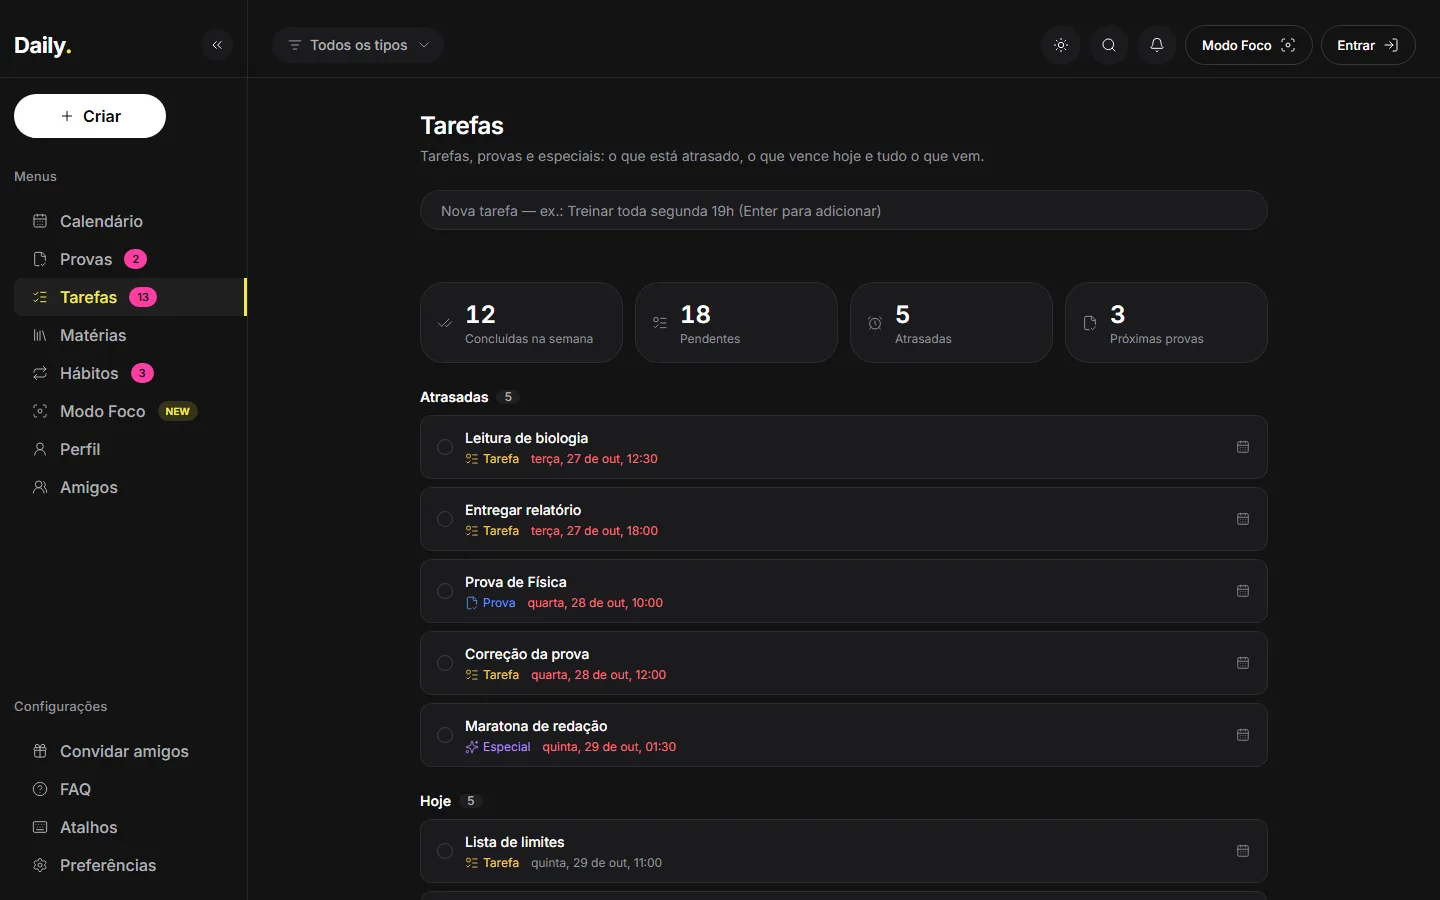
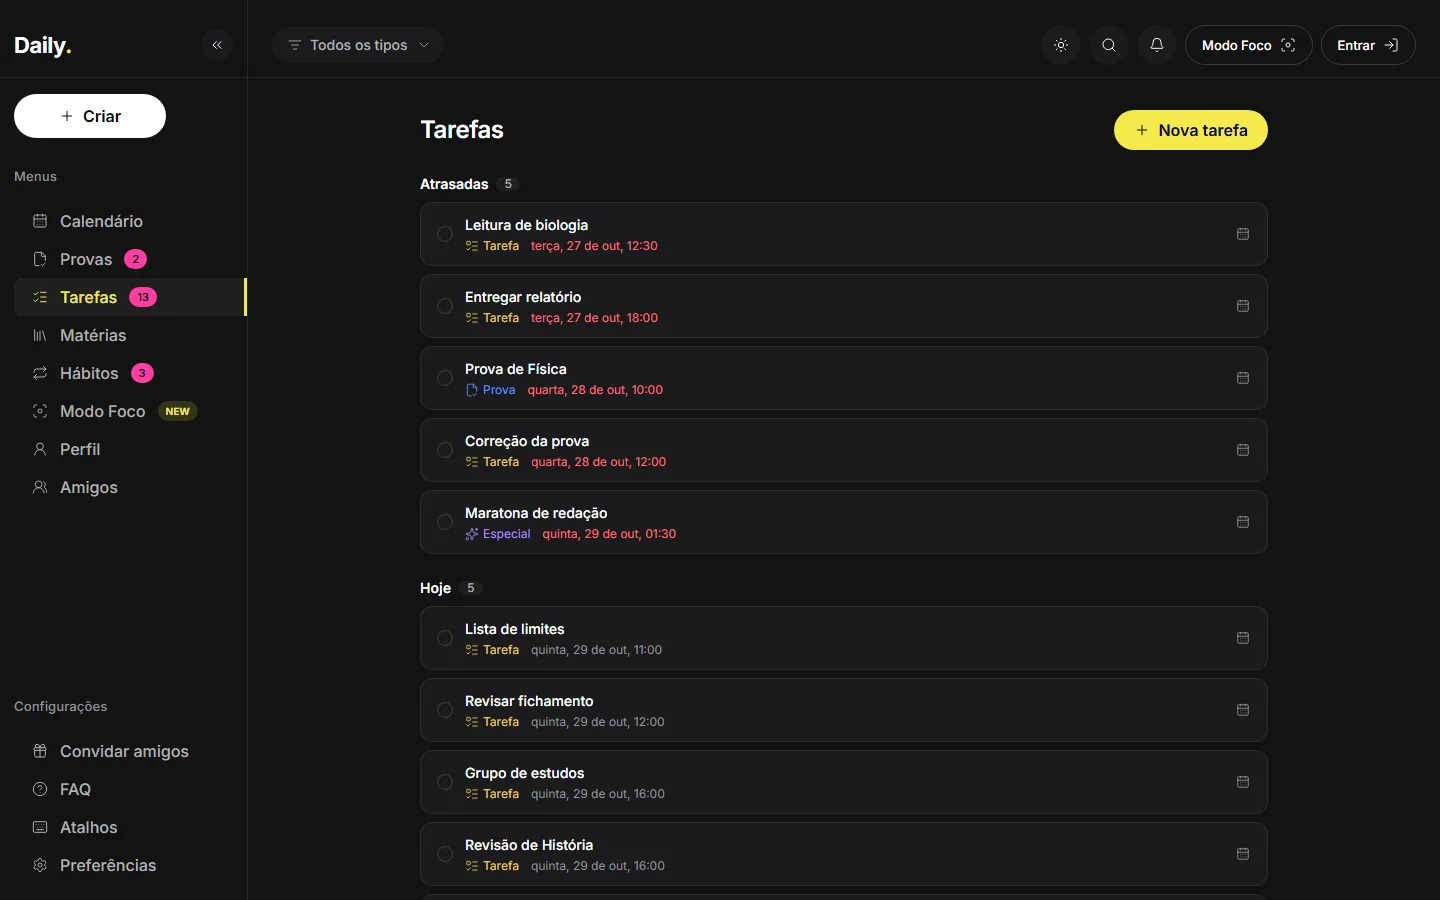
docs: minimalismo das páginas (CHANGELOG, README, design system §23 e capturas de Tarefas e Hábitos)

diff --git a/README.md b/README.md
@@ -56,7 +56,7 @@ A versão **1.0** está publicada em [https://dailystudyplanner.vercel.app](http
 | **Calendário (Mês)**: tarefas, provas e especiais, com filtro por tipo.<br>![Mês](docs/images/calendario-mes.webp)                                              | **Semana**: grade de horas, eventos simultâneos lado a lado e faixa de hábitos.<br>![Semana](docs/images/calendario-semana.webp)                                        |
 | **Dia**: agenda com painel de hábitos, próxima prova e tarefas.<br>![Dia](docs/images/calendario-dia.webp)                                                      | **Ano**: 12 mini-meses com a densidade de eventos de cada dia.<br>![Ano](docs/images/calendario-ano.webp)                                                               |
 | **Hábitos**: heatmap de contribuições, sequências e taxa por hábito.<br>![Hábitos](docs/images/habitos.webp)                                                    | **Perfil** (antes Estatísticas): tempo de foco, preparação, água, hábitos de hoje e estatísticas pessoais.<br>![Perfil](docs/images/perfil.webp)                        |
-| **Tarefas**: resumo, Atrasadas, Hoje e todas as Próximas, com concluir em um clique.<br>![Tarefas](docs/images/tarefas.webp)                                    | **Painel de tarefa**: tipo, status em 3 opções, prazo, conteúdos/subtarefas e descrição.<br>![Painel de tarefa](docs/images/painel-tarefa.webp)                         |
+| **Tarefas**: Atrasadas, Hoje e todas as Próximas, com concluir em um clique e o botão “Nova tarefa”.<br>![Tarefas](docs/images/tarefas.webp)                    | **Painel de tarefa**: tipo, status em 3 opções, prazo, conteúdos/subtarefas e descrição.<br>![Painel de tarefa](docs/images/painel-tarefa.webp)                         |
 | **Tarefas recorrentes**: repetir com atalhos ou personalizado, resumo e prévia das próximas datas.<br>![Repetir no painel](docs/images/recorrentes-painel.webp) | **Escopo**: editar ou excluir só esta ocorrência, esta e as próximas, ou todas.<br>![Escopo da edição](docs/images/recorrentes-escopo.webp)                             |
 | **Tema claro**: o mesmo app em fundo claro, com o seletor Sistema, Claro ou Escuro.<br>![Tema claro](docs/images/tema-claro-calendario.webp)                    | **Perfil no claro**: cartões brancos, tinta escura e as cores de significado com contraste AA.<br>![Perfil no tema claro](docs/images/tema-claro-perfil.webp)           |
 | **Conquistas**: medalhas com níveis, progresso e a data, agrupadas por categoria.<br>![Conquistas](docs/images/conquistas.webp)                                 | **Detalhe da medalha**: critério, data de cada nível e "Destacar no perfil".<br>![Detalhe da medalha](docs/images/medalha-detalhe.webp)                                 |
@@ -73,7 +73,6 @@ A versão **1.0** está publicada em [https://dailystudyplanner.vercel.app](http
 - [x] Três tipos de compromisso (**Tarefa**, **Prova**, **Especial**) e três status (**Pendente**, **Concluído**, **Cancelado**) com cores reservadas: a tarefa fica amarela, verde ou vermelha; prova e especial mantêm a cor do tipo
 - [x] **Painel de tarefa** único para criar, ver e editar (lateral no desktop, tela cheia no celular), com **subtarefas** em qualquer tipo, progresso e “Mais opções”; **concluir com um clique** em todo chip e bloco do calendário (Dia, Semana, Mês e agenda de hoje), nas linhas de Tarefas e no painel, com “Desfazer” (a Prova se conclui pelos conteúdos)
 - [x] **Tarefas recorrentes** (Tarefa e Especial): todo dia, dias úteis, dias da semana, a cada N dias/semanas/meses/anos, dia do mês ou último dia, até uma data ou N vezes; cada ocorrência se conclui sozinha (subtarefas recomeçam), e editar/excluir pergunta “Somente esta / Esta e as próximas / Todas”
-- [x] **Entrada rápida em pt-BR** na página Tarefas (`Treinar toda segunda 19h`, `Aluguel todo dia 5`), mostrando o que entendeu antes de salvar
 - [x] Checklist de conteúdos da prova com barra de progresso
 - [x] **Filtro por tipo** (multisseleção) no calendário e na página Tarefas, salvo entre sessões
 - [x] Sidebar recolhível e interface em pt-BR
@@ -81,7 +80,7 @@ A versão **1.0** está publicada em [https://dailystudyplanner.vercel.app](http
 - [x] **Dados salvos no navegador** (`localStorage` versionado, com validação, migração e backup)
 - [x] **Criar, editar, duplicar e excluir** tarefas, provas, especiais e matérias, com "Desfazer" por 6 s
 - [x] Conteúdos da prova como mini tarefas (adicionar, renomear, remover, reordenar, marcar) com progresso
-- [x] Páginas **Provas** (contagem regressiva), **Tarefas** (resumo, Atrasadas, Hoje, Próximas sem limite de dias e Concluídas) e **Matérias** (cores)
+- [x] Páginas **Provas** (contagem regressiva), **Tarefas** (Atrasadas, Hoje, Próximas sem limite de dias e Concluídas) e **Matérias** (cores)
 - [x] Clique num dia vazio cria evento; "+N mais" abre a lista completa do dia
 - [x] Exportar e importar dados em JSON (validado, com confirmação; aceita arquivos v1 a v5)
 - [x] **Modo Foco** (`/foco`): anel minimalista com tempo editável por digitação (1 min a 3 h), histórico de sessões e **travamento do app** (veja abaixo)

diff --git a/docs/design/design-system.md b/docs/design/design-system.md
@@ -546,7 +546,7 @@ Sem tokens novos: tudo usa os existentes (chips de seleção, `MetaRow`, `Modal`
 - **Ícone de repetição** (`ui/RecurrenceIcon`, `Repeat2` do lucide em `size-icon-sm`, `currentColor`): ao lado do rótulo do tipo nos chips e blocos, e antes da regra nas linhas da página Tarefas. É decorativo onde o nome acessível do chip já diz “repete: Toda segunda e quarta”; fora disso tem `role="img"` e `aria-label`.
 - **Linha “Repetir”** no painel (Tarefa e Especial): atalhos como chips de seleção (`radiogroup`, um toque), “Personalizado…” abre um `fieldset` com borda fina (`border-hair`, `rounded-card-sm`): “A cada” (número + unidade), dias da semana como chips `aria-pressed` (DOM–SÁB, nome completo no `aria-label`), dia do mês ou “Último dia do mês” e término (Nunca / Em / Após). Embaixo, sempre: o resumo em texto (`text-sm font-medium`), “Próximas: …” (`text-soft`), o erro em `role="alert"` e a dica hábito × tarefa recorrente (`text-muted`, ícone `Info`).
 - **Diálogo de escopo** (`features/tasks/ScopeDialog`): `Modal` pequeno por cima do painel (só o diálogo do topo trata Esc e Tab), três opções em cartões com rádio e dica; a escolhida ganha `border-accent`; “Somente esta” fica esmaecida e explicada quando a mudança vale para a série. Botões Voltar (secundário) e Salvar/Excluir (primário).
-- **Entrada rápida** (página Tarefas): campo largo; o “Entendi: **título** · data · hora · regra” fica abaixo, ligado por `aria-describedby`.
+- **Página Tarefas:** sem campo de entrada rápida (removido no Prompt 17); “+ Nova tarefa” é um `Button` primário no cabeçalho, igual a “Novo hábito”.
 - **Contraste:** o horário nos chips e blocos passou de `text-muted` para `text-soft` (era 4,06:1 sobre os fundos suaves de status). Medido nas visões Semana e Mês, na página Tarefas, no painel com “Personalizado” aberto e no diálogo de escopo: tudo ≥ 4,5:1.
 
 | Repetir no painel                                       | Escopo da edição                                       |
@@ -689,3 +689,9 @@ Sem tokens novos. O chip e o bloco do calendário viram um **contêiner com duas
 - **Prova** nunca ganha o controle (prepara-se pelos conteúdos). **Cancelada** mostra um “×” (`text-cancelado`) onde há folga, sem ação; reabrir fica no painel.
 - **Ocorrência de série** conclui só a si mesma (id `serie@data`), sem perguntar escopo.
 - Toast “Desfazer” (`toggleDoneWithUndo`) e medalhas avaliadas como em qualquer conclusão. O Ano não tem chips (só densidade).
+
+## 23. Cabeçalho de página mínimo (v1.8)
+
+- `PageShell` tem só **título** (`h1`, `text-xl`; no celular `sr-only`, porque a topbar já mostra o nome) e **ações** à direita, alinhados ao centro. Não há subtítulo descritivo: a página se explica pelo título, pelas seções e pelos rótulos.
+- A ação principal de criar é um `Button` primário com `Plus` e o nome da coisa (“Novo hábito”, “Nova tarefa”); no celular ocupa a largura do cabeçalho, com alvo de 44 px.
+- Texto explicativo só onde ele muda o que a pessoa faz: estados vazios (`EmptyState`), diálogos e confirmações, avisos, Entrar e Privacidade.

diff --git a/CHANGELOG.md b/CHANGELOG.md
@@ -4,6 +4,16 @@ Formato baseado em [Keep a Changelog](https://keepachangelog.com/pt-BR/1.1.0/). 
 
 ## [Não lançado]
 
+### Alterado (minimalismo das páginas)
+
+- **Páginas sem subtítulo descritivo:** Hábitos, Tarefas, Provas, Matérias, Amigos e Preferências mostram só o título e as ações (a prop `description` saiu do `PageShell`). Estados vazios, diálogos, Entrar e Privacidade mantêm os textos.
+- **Tarefas mais enxuta:** sem os quatro cartões de resumo (as contagens ficam nos cabeçalhos das seções e no distintivo do menu) e com o botão **“+ Nova tarefa”** no mesmo padrão de “Novo hábito”, que abre o painel de nova tarefa.
+- **Preferências:** a seção “Perfil e Modo Foco” perdeu o parágrafo que repetia os rótulos dos campos.
+
+### Removido
+
+- **Entrada rápida em pt-BR** da página Tarefas (`Treinar toda segunda 19h`, “Entendi: …”), com `lib/tasks/quick-parse` e `lib/forms/quick-create`. Tarefas recorrentes continuam pelo painel (“Repetir”).
+
 ### Corrigido (acabamento 13.1)
 
 - **Contraste AA no tema escuro:** o texto secundário (`--ds-color-fg-muted`) passa de `#8A8A93` para `#92929B` e o contador rosa (`--ds-color-badge`) de `#FF2D9B` para `#FF3DA3`; a linha tracejada da agenda de hoje deixa de passar por trás das horas. A auditoria completa (todas as telas e estados, desktop e celular) fica sem reprovações nos dois temas: menor razão 4,59:1 no escuro e 4,73:1 no claro. O claro não muda.
